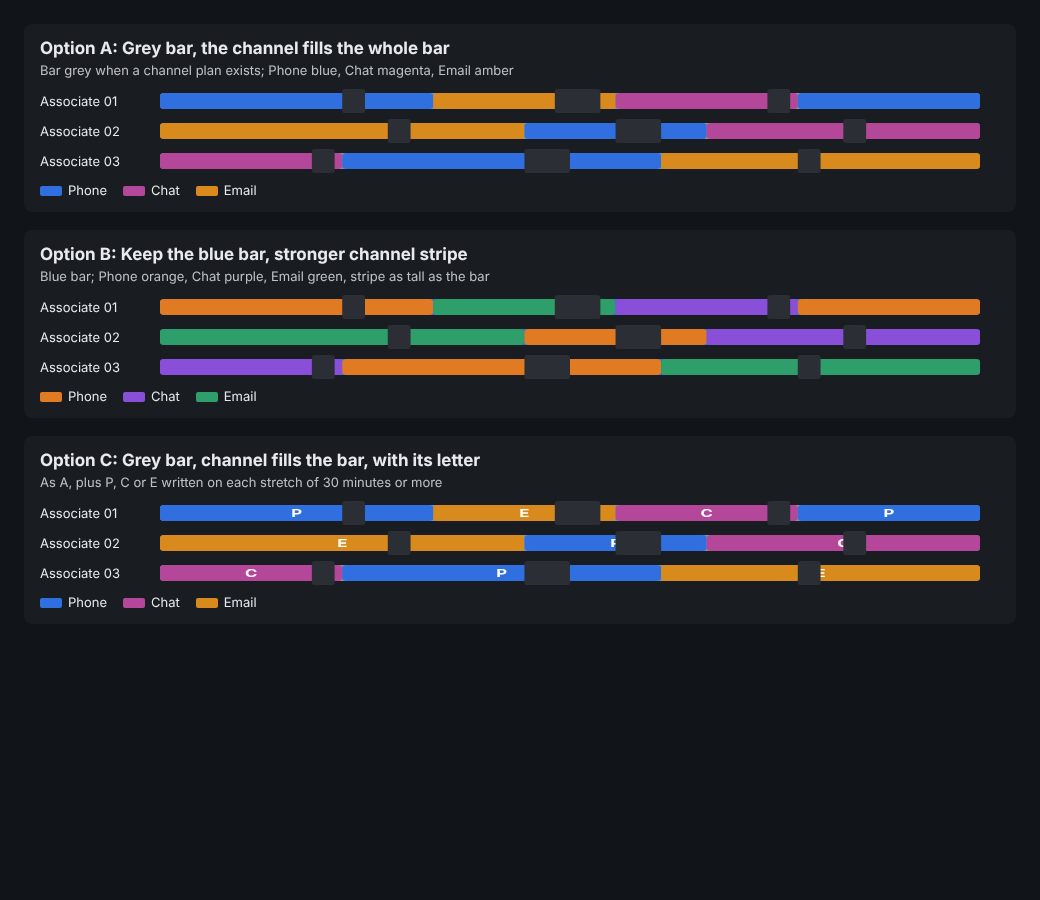
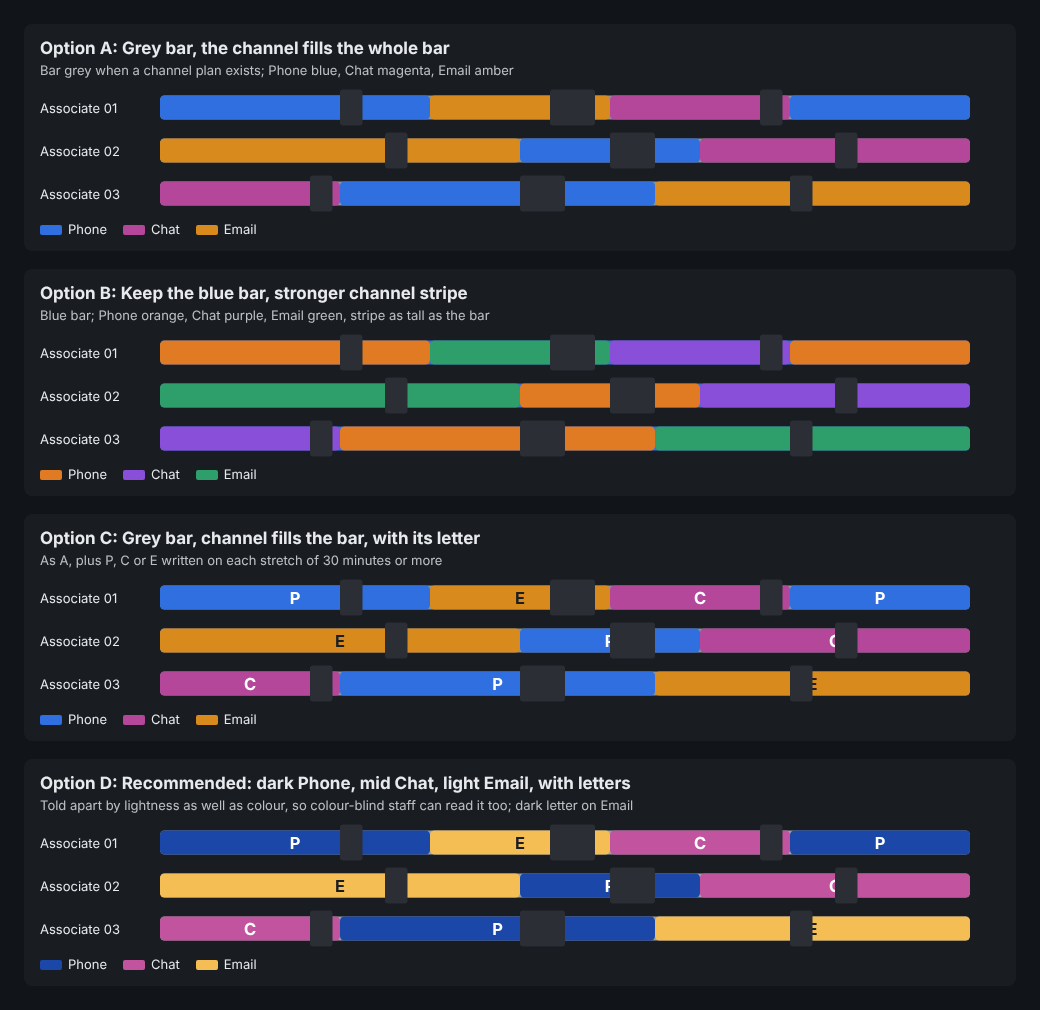
Phase AK: sample ak01 option D after a contrast check (better-colors)
Claude-Session: https://claude.ai/code/session_012jkpuBfug5TnsMSqQWAuNe

Changed region(s): [[0.0308, 0.28, 0.9538, 0.7156], [0.0308, 0.7467, 0.9538, 0.9644], [0.0308, 0.0311, 0.9538, 0.2489]]

diff --git a/evidence/phase_ak/samples/ak01_channel_colours.html b/evidence/phase_ak/samples/ak01_channel_colours.html
@@ -8,7 +8,7 @@ body.dark{--bg:#111418;--ink:#E8EAED;--panel:#191D22;--rail:#3a4048;--grid:#262b
 .opt{background:var(--panel);border-radius:8px;padding:14px 16px;margin:0 0 18px;max-width:980px}
 h2{font-size:17px;margin:0 0 4px} p{margin:0 0 10px;font-size:13px;opacity:.8}
 .row{display:flex;align-items:center;gap:10px;margin:4px 0}.row span{width:110px;font-size:13px}
-svg{width:820px;height:26px}.key{display:flex;gap:16px;font-size:13px;margin-top:8px}.key i{display:inline-block;width:22px;height:10px;border-radius:2px;margin-right:6px;vertical-align:middle}
+svg{width:810px;height:39px}.key{display:flex;gap:16px;font-size:13px;margin-top:8px}.key i{display:inline-block;width:22px;height:10px;border-radius:2px;margin-right:6px;vertical-align:middle}
 </style></head><body class="light">
 <script id="d" type="application/json"></script>
 <div id="out"></div>

diff --git a/evidence/phase_ak/samples/make.py b/evidence/phase_ak/samples/make.py
@@ -12,6 +12,9 @@ OPTS = {
           {"bar": "#3E6FD8", "P": "#E07B24", "C": "#8A4FD8", "E": "#2E9E6A"}, "full"),
     "C": ("Grey bar, channel fills the bar, with its letter", "As A, plus P, C or E written on each stretch of 30 minutes or more",
           {"bar": "#8A929C", "P": "#2F6FE0", "C": "#B4479A", "E": "#D98A1C"}, "letters"),
+    "D": ("Recommended: dark Phone, mid Chat, light Email, with letters",
+          "Told apart by lightness as well as colour, so colour-blind staff can read it too; dark letter on Email",
+          {"bar": "#9AA1AA", "P": "#1A47A8", "C": "#C2549F", "E": "#F4BE55"}, "letters"),
 }
 def svg(rows, c, mode):
     out = []
@@ -20,10 +23,10 @@ def svg(rows, c, mode):
         for a, b, ch in runs:
             s.append(f'<rect x="{a}" y="5" width="{b-a}" height="16" rx="3" fill="{c[ch]}"/>')
             if mode == "letters" and b - a >= 30:
-                s.append(f'<text x="{(a+b)/2}" y="17" font-size="11" font-weight="700" fill="#fff" text-anchor="middle">{ch}</text>')
+                s.append(f'<text x="{(a+b)/2}" y="17" font-size="11" font-weight="700" fill="{'#1B1F24' if ch == 'E' else '#fff'}" text-anchor="middle">{ch}</text>')
         for t, m in breaks:
             s.append(f'<rect x="{t}" y="1" width="{m}" height="24" rx="2" fill="#2B2F35"/>')
-        out.append(f'<div class="row"><span>{name}</span><svg viewBox="0 0 540 26" preserveAspectRatio="none">{"".join(s)}</svg></div>')
+        out.append(f'<div class="row"><span>{name}</span><svg viewBox="0 0 540 26">{"".join(s)}</svg></div>')
     return "".join(out)
 html = ""
 for k, (title, note, c, mode) in OPTS.items():

diff --git a/evidence/phase_ak/REQUESTS.md b/evidence/phase_ak/REQUESTS.md
@@ -20,7 +20,11 @@ so they can approve their requests"
 ## Questions only the owner can answer
 
 1. Colours (sample ak01, light and dark): A (grey bar, Phone blue, Chat magenta, Email amber), B (blue bar, Phone
-   orange, Chat purple, Email green) or C (as A with P, C, E written on longer stretches)?
+   orange, Chat purple, Email green), C (as A with P, C, E written on longer stretches) or D (recommended: dark Phone
+   #1A47A8, mid Chat #C2549F, light Email #F4BE55, with letters)? Measured (better-colors): today Phone on the bar is
+   1.00:1 and the three channels 1.04 to 1.08:1 apart in lightness; B puts orange next to green (1.13:1, unreadable
+   with red-green colour blindness); white letters on C's amber are 2.76:1. D: channels 2.0 to 4.9:1 apart, letters
+   4.2:1 or more.
 2. "Schedule tab": the Schedules page in the menu (This week, Schedules), a run's schedule (Runs, a run, Schedules),
    or another page?
 3. Team managers:
